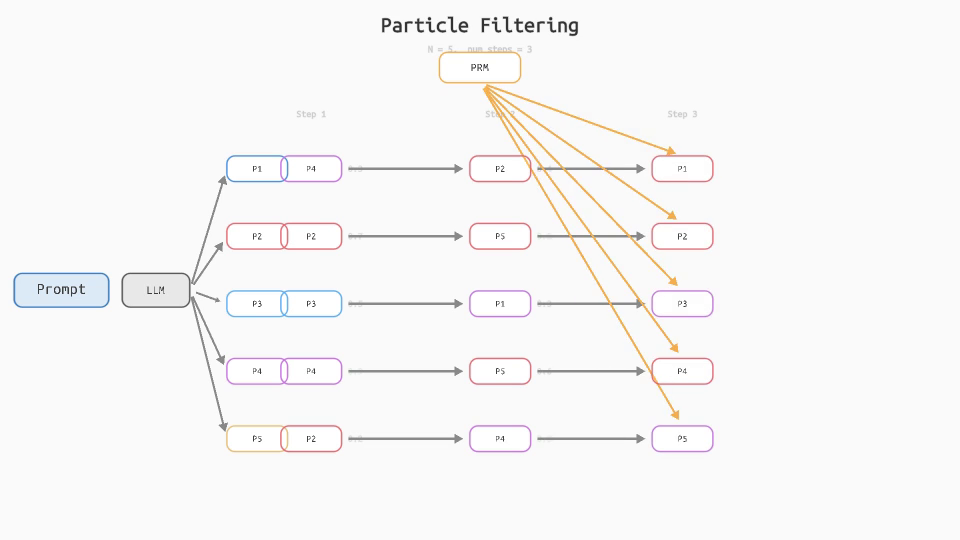
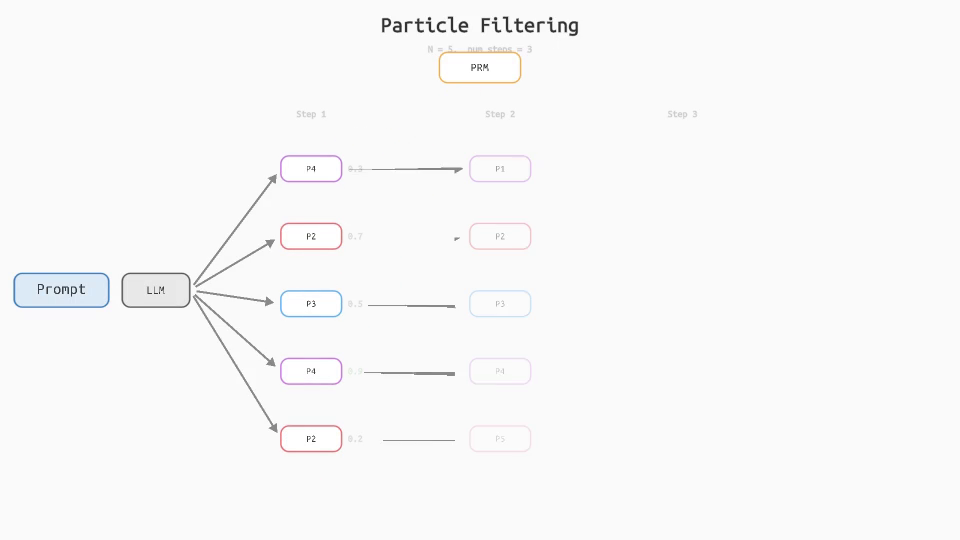
fix: move PRM box to top-right corner to avoid step label overlap

diff --git a/docs/animations/particle_filtering.py b/docs/animations/particle_filtering.py
@@ -27,7 +27,7 @@ class ParticleFilteringScene(Scene):
         self.play(ShowCreation(prompt_to_llm), FadeIn(llm), run_time=0.6)
 
         prm_label = labeled_box("PRM", color=ACCENT_ORANGE, width=1.2, height=0.45, font_size=16)
-        prm_label.move_to(UP * 2.5)
+        prm_label.move_to(RIGHT * 5.5 + UP * 2.5)
         self.play(FadeIn(prm_label), run_time=0.5)
 
         step_x = [-2.5, 0.3, 3.0]

diff --git a/docs/animations/beam_search.py b/docs/animations/beam_search.py
@@ -24,7 +24,7 @@ class BeamSearchScene(Scene):
         self.play(ShowCreation(prompt_to_llm), FadeIn(llm), run_time=0.6)
 
         prm_label = labeled_box("PRM", color=ACCENT_ORANGE, width=1.2, height=0.45, font_size=16)
-        prm_label.move_to(UP * 2.5)
+        prm_label.move_to(RIGHT * 5.5 + UP * 2.5)
         self.play(FadeIn(prm_label), run_time=0.5)
         self.wait(0.5)
 
